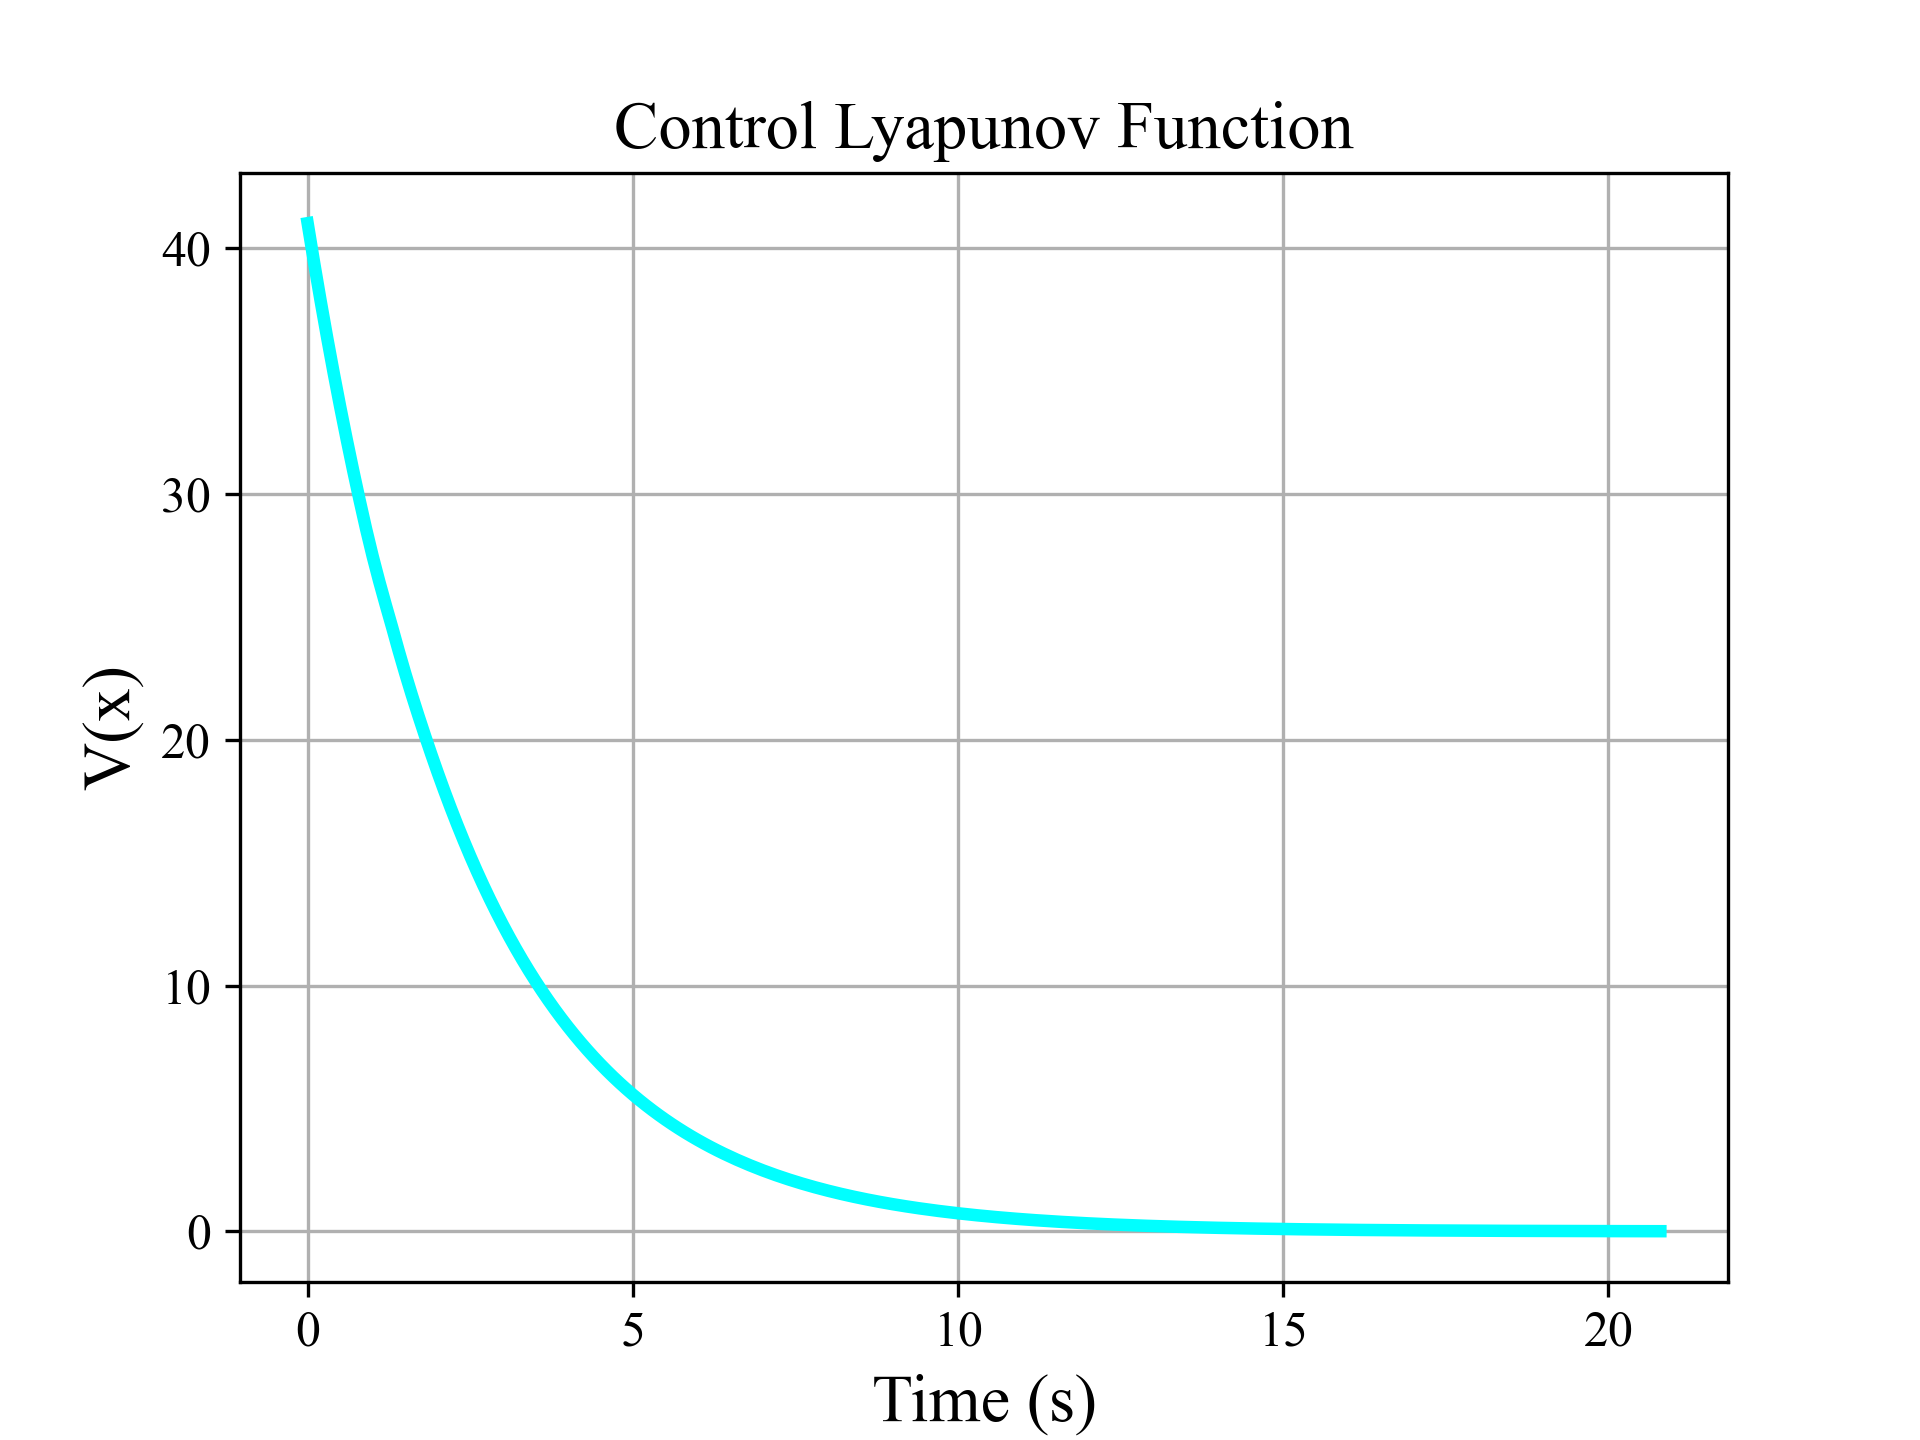
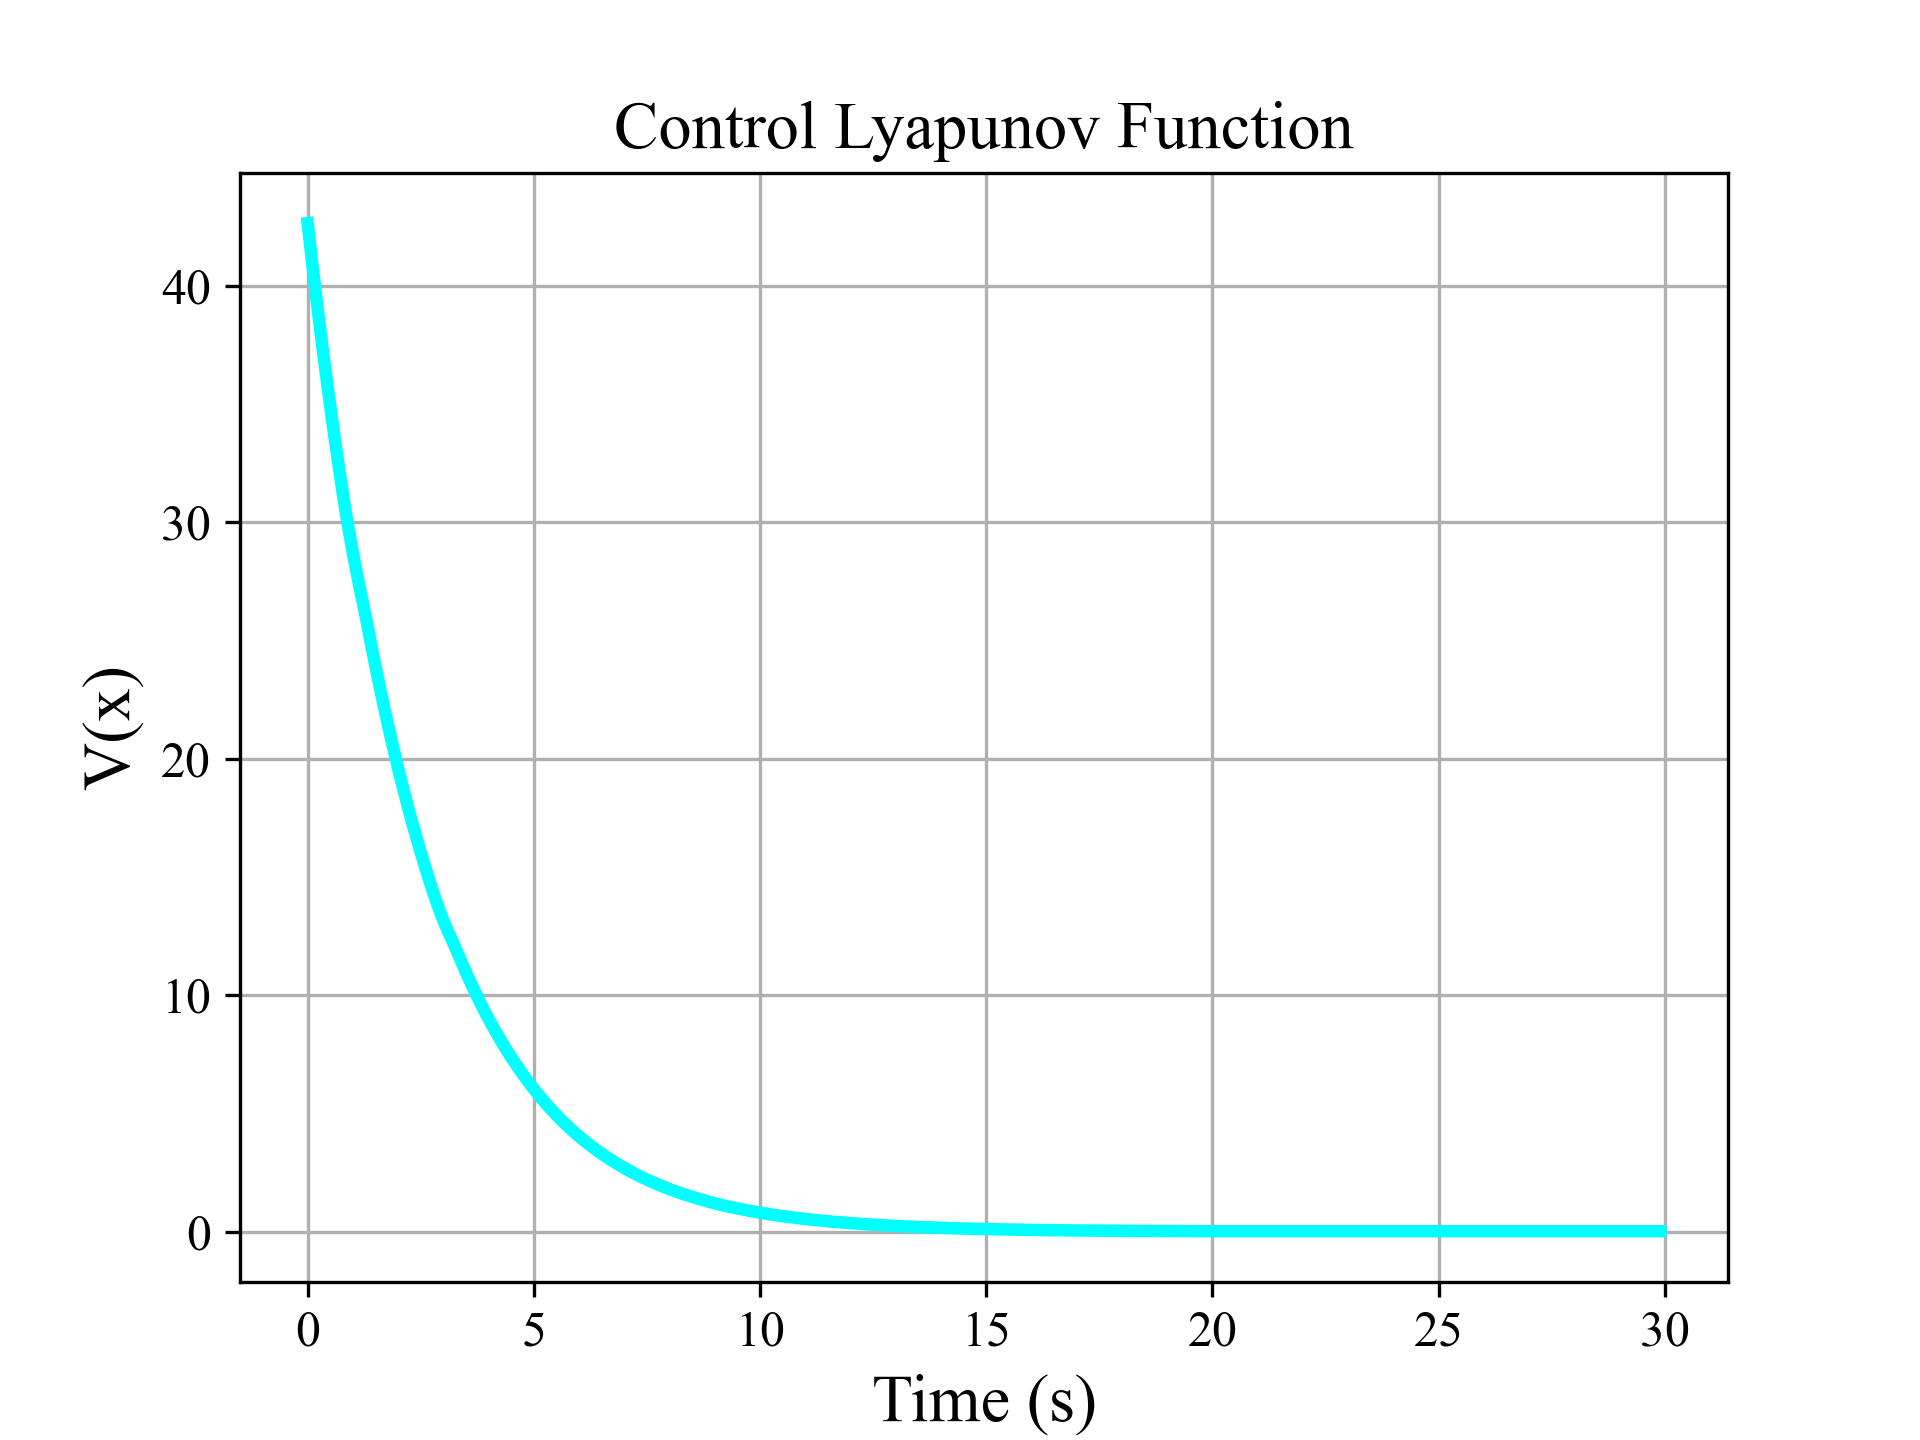
second commit

diff --git a/cbf_dynamic_ca/single_vehicle_back/point_stabilization.py b/cbf_dynamic_ca/single_vehicle_back/point_stabilization.py
@@ -19,13 +19,13 @@ class Point_Stabilization_Execute:
                     'u_max': [2.0, 1.5],
                     'u_min': [-2.0, -1.5],
                     'initial_state': [0.0, 0.0, 0.0],
-                    'target_state': [5.0, 4.0, 0.0],  # [5.0, 5.0, 0.0]
+                    'target_state': [5.0, 4.2, 0.0],  # [5.0, 5.0, 0.0]
                     'robot_radius': 0.25,
                     'l': 0.15,
                     # 'obstacle_list': [[3.0, 1.5, 0.7], [1.0, 3.0, 0.55]],
                     # 'obstacle_dynamics_list': [[0.0, 0.0], [0.0, 0.0]],
-                    'obstacle_list': [[3.5, 1.5, 0.7]],
-                    'obstacle_dynamics_list': [[-0.5, 0.0]],
+                    'obstacle_list': [[3.5, 1.5, 0.7], [5.0, 3.0, 0.6]],
+                    'obstacle_dynamics_list': [[-0.5, 0.0], [-0.5, 0.0]],
                     'margin': 0.05
                 }
         
@@ -186,17 +186,22 @@ class Point_Stabilization_Execute:
                                           color='k')
             self.ax.add_patch(self.obs[i])
 
-        self.ani = animation.FuncAnimation(self.fig,
-                                           func=self.animation_loop,
-                                           frames=self.terminal_time,
-                                           init_func=self.animation_init,
-                                           interval=200,
+        self.ani = animation.FuncAnimation(self.fig, 
+                                           func=self.animation_loop, 
+                                           frames=self.terminal_time, 
+                                           init_func=self.animation_init, 
+                                           interval=20, 
                                            repeat=False)
         plt.grid()
-        plt.show()
-        if False:
-            self.ani.save('./v1.gif', writer='imagemagick', fps=100)
 
+        # writergif = animation.PillowWriter(fps=30) 
+        # self.ani.save('pig.gif', writer=writergif)
+
+        # writer = animation.PillowWriter(fps=15, metadata=dict(artist='Me'), bitrate=1800)
+        # ani.save('scatter.gif', writer=writer)
+
+        plt.show()
+        
     def animation_init(self):
 
         # start position
@@ -396,8 +401,8 @@ if __name__ == '__main__':
     test_target.qp_solve_cbf_clf()
     
     test_target.render()
-    test_target.show_clf()
-    test_target.show_slack()
-    # test_target.show_cbf()
-    test_target.show_control()
+    # test_target.show_clf()
+    # test_target.show_slack()
+    # # test_target.show_cbf()
+    # test_target.show_control()
     

diff --git a/cbf_dynamic_ca/single_vehicle_back/single_vehicle.py b/cbf_dynamic_ca/single_vehicle_back/single_vehicle.py
@@ -132,7 +132,7 @@ class Single_Vehicle_Model:
         relative_orientation = self.state[2] - self.target_state[2]
         H = sp.Matrix([[1.00, 0.00, 0.05], 
                        [0.00, 1.00, 0.05], 
-                       [0.05, 0.05, 0.32]])  # 0.26
+                       [0.05, 0.05, 0.45]])  # 0.26
         
         relative_state = sp.Matrix([relative_x, relative_y, relative_orientation])
         clf = (relative_state.T @ H @ relative_state)[0, 0]

diff --git a/README.md b/README.md
@@ -1,1 +1,12 @@
 # Dynamic-Control-barrier-function
+
+## Run the file
+`python point_stabilization.py
+`
+
+## Dependency
+`casadi numpy sympy
+`
+    
+
+
